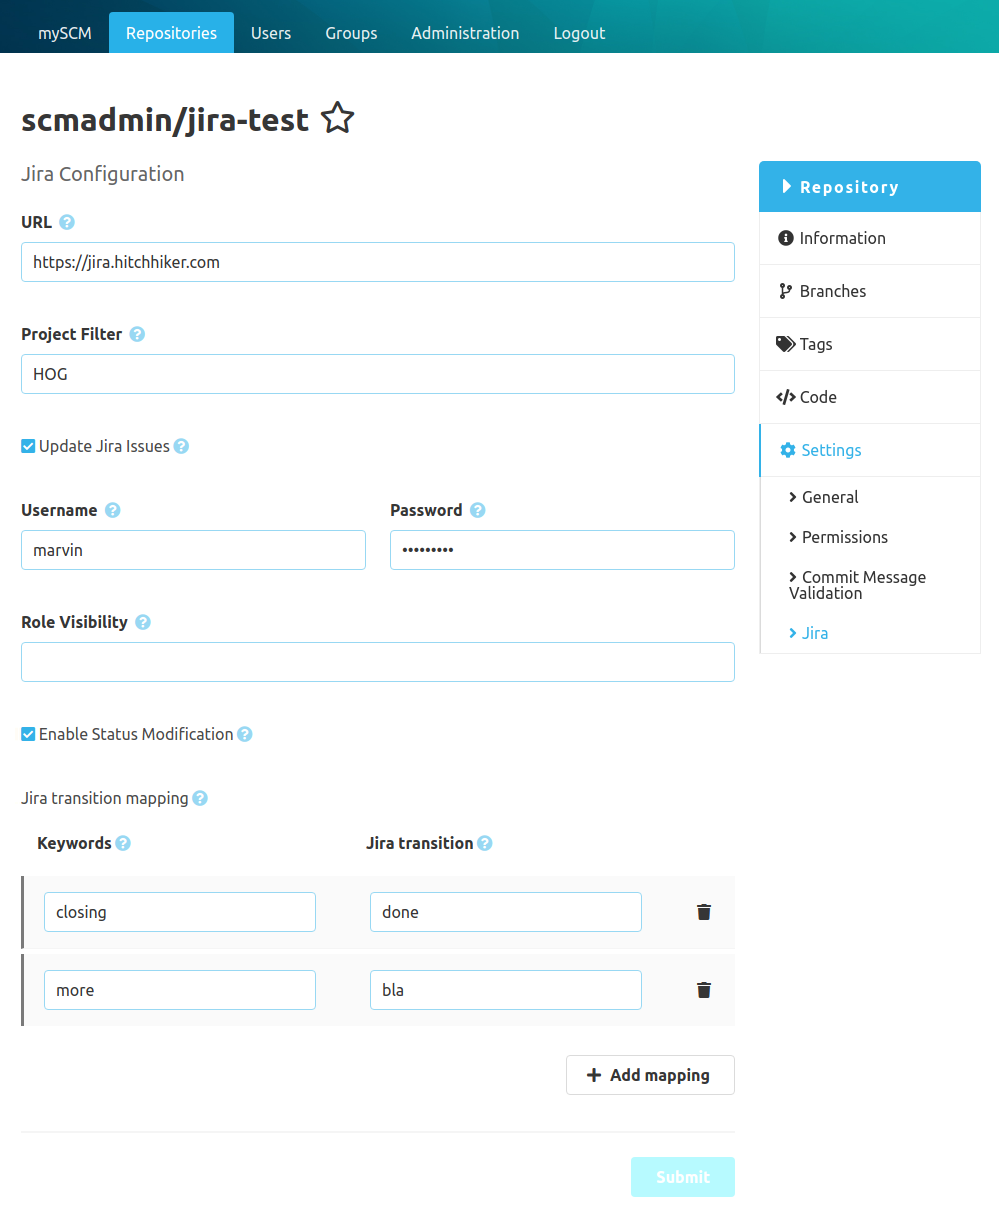
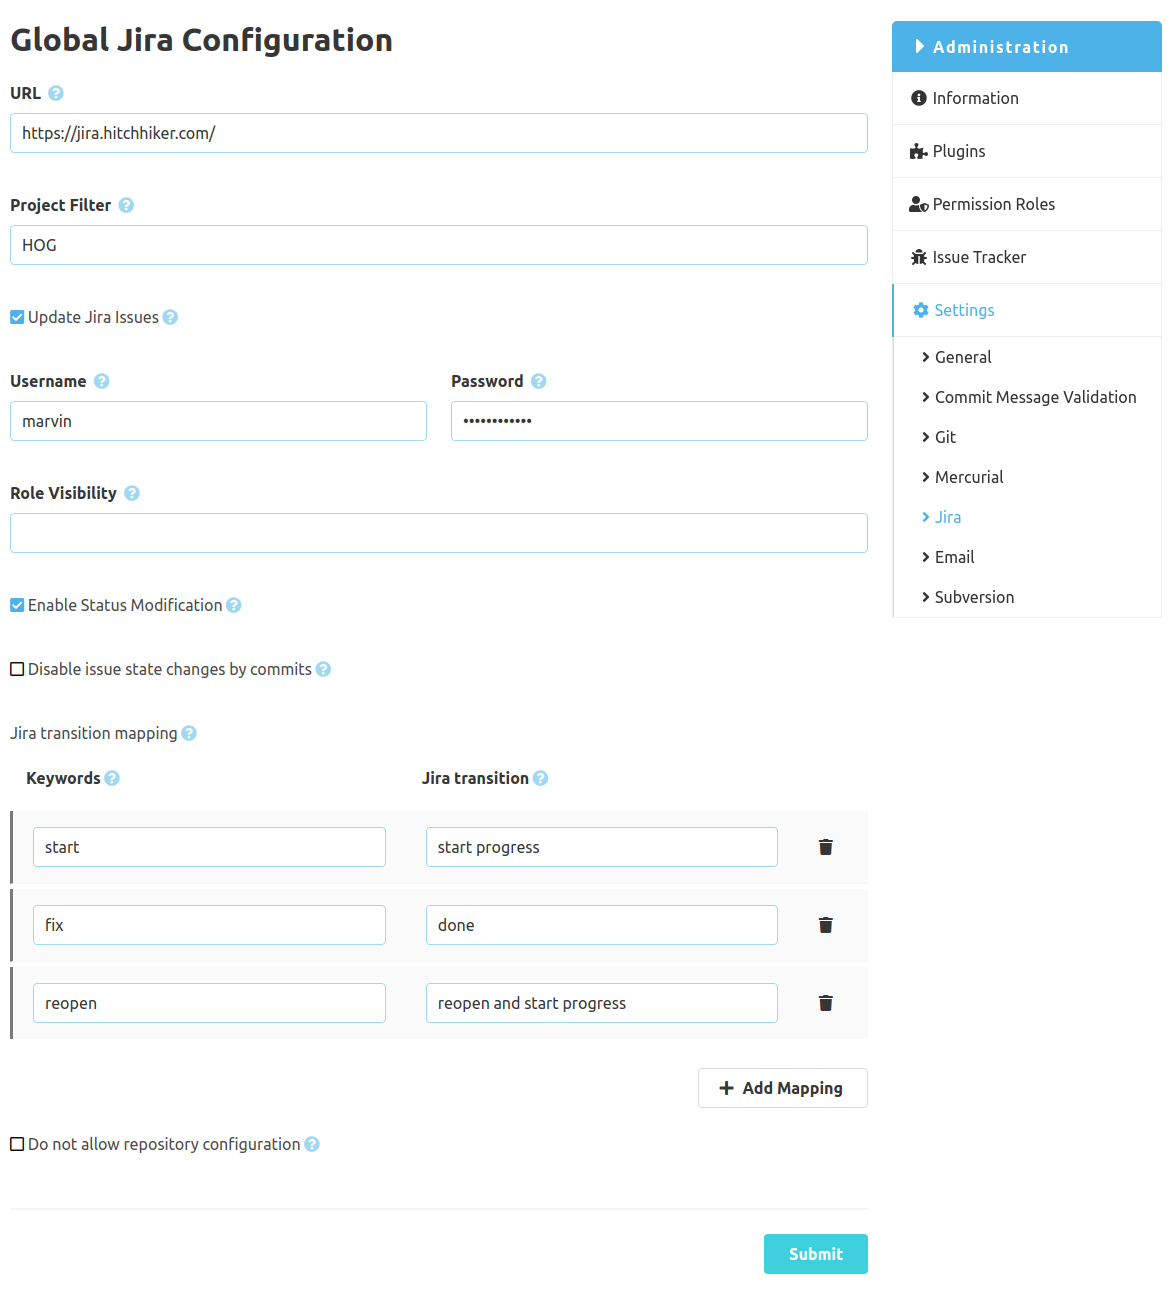
Update documentation

diff --git a/docs/de/configuration/index.md b/docs/de/configuration/index.md
@@ -36,6 +36,9 @@ Diese Schlüsselwörter kann man in Form einer kommaseparierten Liste angegeben.
 Zum Beispiel könnte man für den Status "Done" folgende Schlüsselwörter angeben: "closes, closing".
 Damit würde der Text "Closes Bug SCM-42" ebenfalls das Ticket SCM-42 auf den Status "Done" setzen.
 
+Wenn Statusübergänge nur aufgrund von Pull Requests und nicht aufgrund von Commits durchgeführt werden soll, kann
+zusätzlich die Option "Deaktiviere Statusänderungen durch Commits" aktiviert werden.
+
 > **Wichtig:** Der konfigurierte Jira Benutzer benötigt Berechtigungen, um den Status von Tickets zu ändern.
 
 ![Jira Konfiguration](assets/config.png)

diff --git a/docs/en/configuration/index.md b/docs/en/configuration/index.md
@@ -36,6 +36,9 @@ These keywords can be specified in the form of a comma-separated list.
 For example, for the status "Done" you could specify the following keywords: "closes, closing".
 Thus, the text "Closes Bug SCM-42" would also set the issues SCM-42 to the status "Done".
 
+If the status should only be updated due to pull requests and not by commits, the additional option "Disable issue
+state changes by commits" can be selected.
+
 > **Important:** The configured Jira user needs permissions to change the status of issues.
 
 ![Jira Configuration](assets/config.png)
